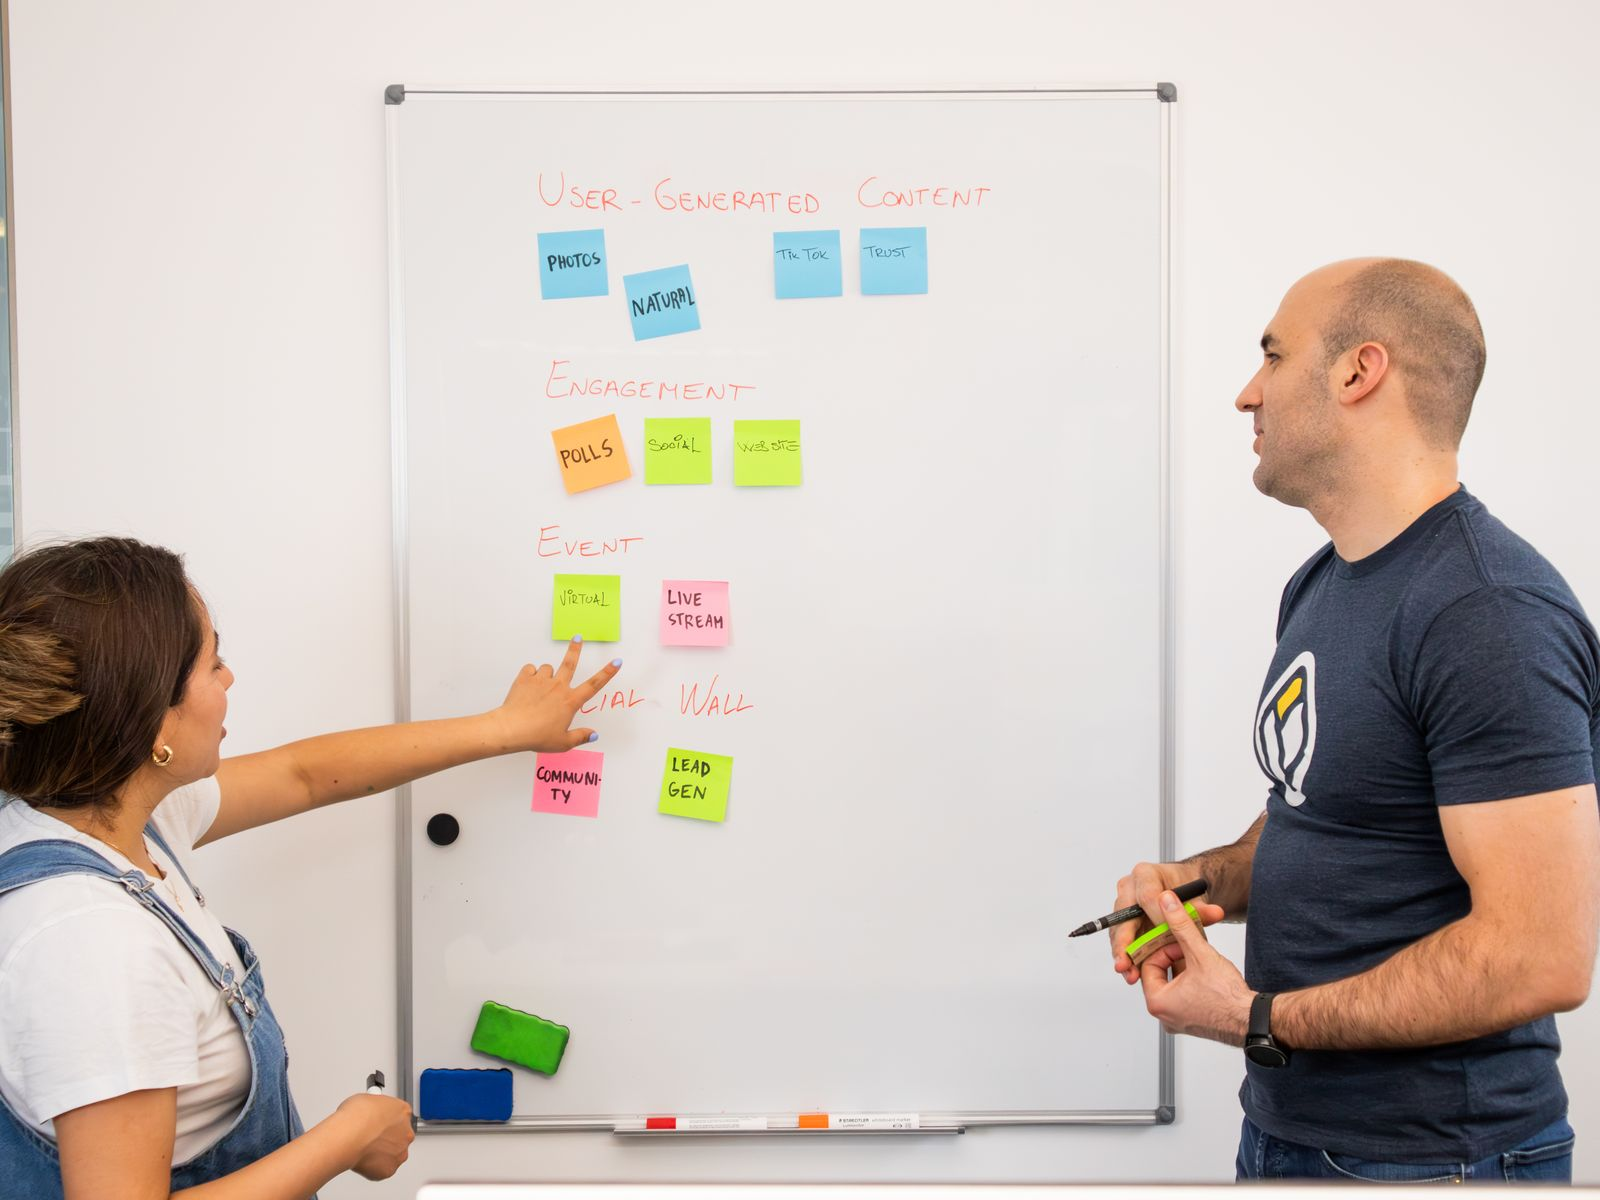
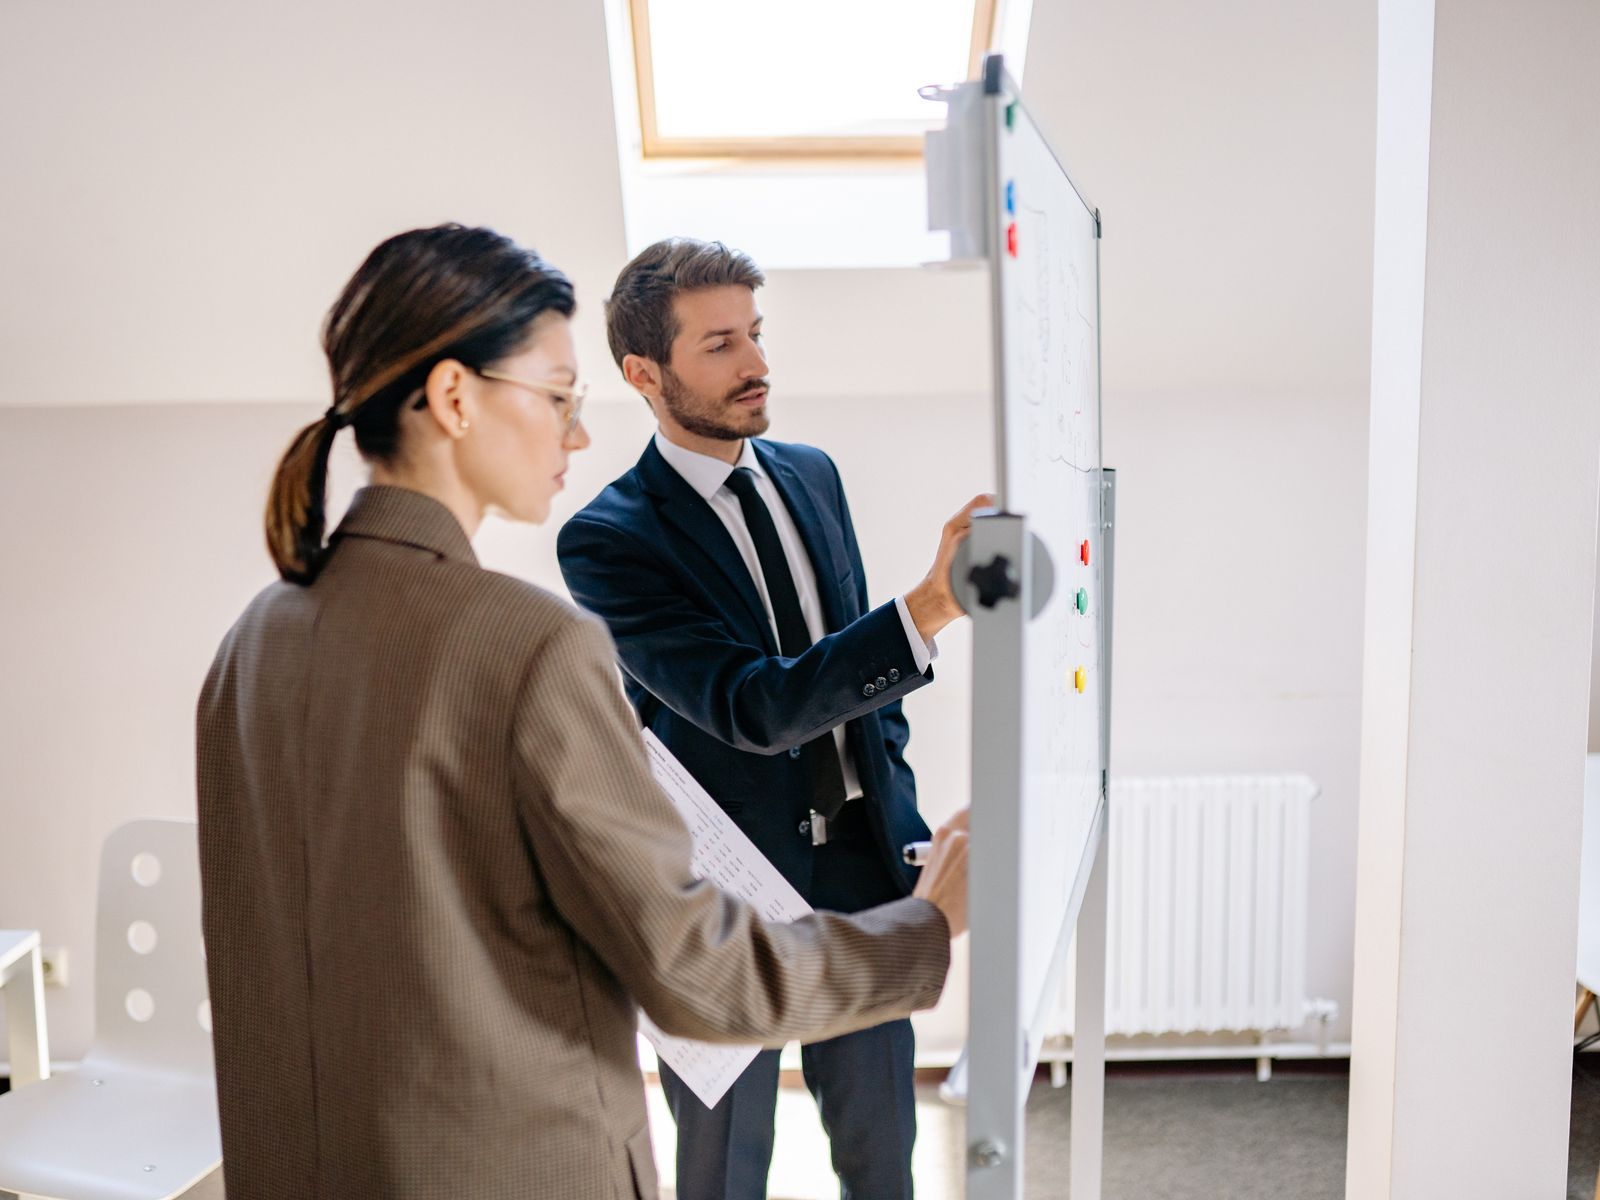
Swap the Plans and Projects hero photos for the chosen ones
Plans hero, Plans whiteboard and Projects hero replaced with the three
Pexels photos picked from the candidate sheet (7433829, 7869306, 7698706),
same crops and file names, credits updated. The four band photos stay.

diff --git a/assets/img/CREDITS.md b/assets/img/CREDITS.md
@@ -2,13 +2,13 @@
 
 The seven photos below are from Pexels and used under the Pexels licence
 (free for commercial use, no attribution required, https://www.pexels.com/license/).
-Downloaded 2026-11-12, cropped to their display ratio by the Pexels image service.
+Downloaded 2026-11-12 (the three Plans and Projects hero/whiteboard photos replaced the same day), cropped to their display ratio by the Pexels image service.
 
 | File | Where | Source |
 |---|---|---|
-| plans-hero.jpg | Plans page hero | https://www.pexels.com/photo/7889240/ |
-| plans-whiteboard.jpg | Plans page, "The plans are fixed" | https://www.pexels.com/photo/17724732/ |
-| projects-hero.jpg | Projects page hero | https://www.pexels.com/photo/17724731/ |
+| plans-hero.jpg | Plans page hero | https://www.pexels.com/photo/7433829/ |
+| plans-whiteboard.jpg | Plans page, "The plans are fixed" | https://www.pexels.com/photo/7869306/ |
+| projects-hero.jpg | Projects page hero | https://www.pexels.com/photo/7698706/ |
 | projects-migrations.jpg | Projects, Migrations band | https://www.pexels.com/photo/442150/ |
 | projects-security.jpg | Projects, Defenses and controls band | https://www.pexels.com/photo/11783119/ |
 | projects-infrastructure.jpg | Projects, Scale and speed band | https://www.pexels.com/photo/4508751/ |
